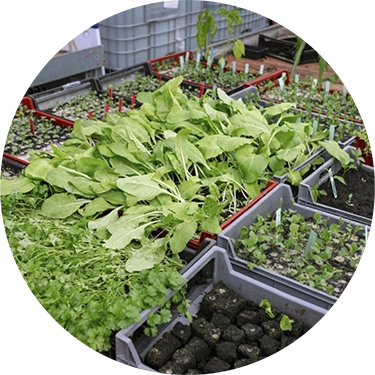
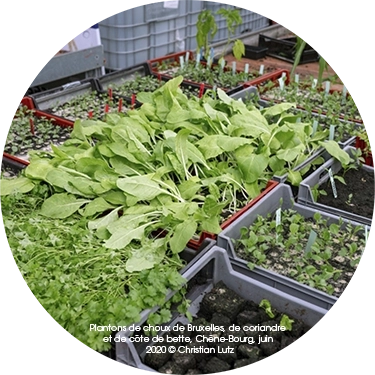
Ajout de la créditaiton du photohraphe sur l'image

Changed region(s): [[0.2347, 0.8507, 0.7627, 0.9387]]

diff --git a/css/styles.css b/css/styles.css
@@ -57,6 +57,10 @@ body {
     background-position: top center;
 }
 
+img {
+    display: block;
+}
+
 a {
     text-decoration: none;
     color: black;
@@ -81,6 +85,7 @@ a {
     padding: 10px 0;
     background-color: white;
     width: 100%;
+    display: block;
 }
 
 .container-nav {
